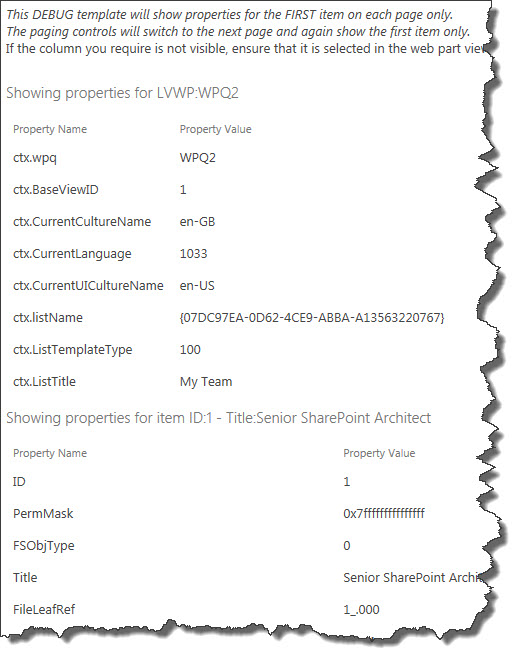
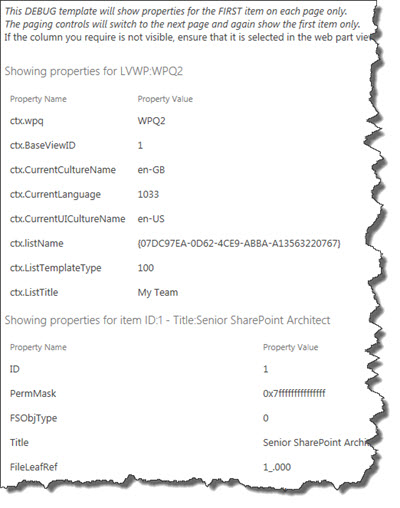
Added a new debug template
Added DebugBrief and supporting images.

diff --git a/JavaScript Display Templates (JSLink)/Debugging ListView Template/csr_ovr_Render_Template_DebugBrief.js b/JavaScript Display Templates (JSLink)/Debugging ListView Template/csr_ovr_Render_Template_DebugBrief.js
@@ -1,0 +1,134 @@
+//Create our Namespace object to avoid polluting the global namespace
+var pfh = pfh || {};
+
+//Define our Header Render pattern
+pfh.renderHeader = function(ctx) {
+	//Define any header content here.
+	//You can include JavaScript and CSS links here.
+	var headerHTML = "<div><em>This DEBUG template will show list view web part properties and the available Item fields only</em><br/>" +
+		"If the column you require is not visible in the available item fields, ensure that it is selected in the web part view</div><br/>";
+	
+	//Now add Specific list/web part information to the page
+	headerHTML += "<div class='ms-list-addnew ms-textLarge ms-soften'>Showing properties for LVWP:" + ctx.wpq + "</div>";
+    headerHTML += "<table class='ms-listviewtable'>" +
+    		"<thead id='js-listinfothead-" + ctx.wpq + "'><tr class='ms-viewheadertr ms-vhltr' align='top'><th class='ms-vh2'>Property Name</th>" +
+    		"<th class='ms-vh2'>Property Value</th></tr></thead><tbody>";
+    		
+    //If you want to show more of the base CTX properties, just add another row here.
+    headerHTML += pfh.headerPropertyRow(ctx,"wpq");
+	headerHTML += pfh.headerPropertyRow(ctx,"BaseViewID");
+	headerHTML += pfh.headerPropertyRow(ctx,"CurrentCultureName");
+	headerHTML += pfh.headerPropertyRow(ctx,"CurrentLanguage");
+	headerHTML += pfh.headerPropertyRow(ctx,"CurrentUICultureName");
+	headerHTML += pfh.headerPropertyRow(ctx,"listName");
+	headerHTML += pfh.headerPropertyRow(ctx,"ListTemplateType");
+	headerHTML += pfh.headerPropertyRow(ctx,"ListTitle");
+	
+	//Get all of the available field names from the first item
+	var firstListItem = ctx.ListData.Row[0];
+	var fieldListFromItem = "";
+	for (var subProp in firstListItem)
+	{
+		fieldListFromItem += subProp + "<br/>";
+	}
+	
+	headerHTML += "<tr class='ms-itmHoverEnabled ms-itmhover'><td class='ms-cellstyle ms-vb2'>Available Item Fields</td><td class='ms-cellstyle ms-vb2'>" + fieldListFromItem + "</td></tr>"
+ 	
+	
+	headerHTML += "</tbody></table>";
+
+	return headerHTML;
+	}
+	
+pfh.headerPropertyRow = function(ctx,propName) {
+
+	var propertyRow = "<tr class='ms-itmHoverEnabled ms-itmhover'><td class='ms-cellstyle ms-vb2'>ctx." + propName + "</td><td class='ms-cellstyle ms-vb2'>" +
+			ctx[propName] + "</td></tr>"
+
+	return propertyRow;
+	}
+	
+
+//Define our footer render pattern
+pfh.renderFooter = function(ctx) {
+	//No footer content created
+	return "";
+	}
+
+
+//Define our item Render pattern
+//This will be called once for each item being rendered from the list.
+//All fields in the view can be access using ctx.CurrentItem.InternalFieldName
+//NB: The field must be included in the view for it to be available
+pfh.CustomItem = function(ctx) {
+	//No information will be returned for any items. All info is in the Header.
+	var itemHTML = "";
+	return itemHTML;	
+}
+
+//This is our function that extracts the properties of subobjects.
+//We've seperated it out into it's own function so that we can use
+//recursive calls to the same function to walk down a tree of nested objects.
+pfh.evaluateObject = function(objValue) {
+
+	var stringValueOfObject = "";
+	//For each property in the object
+	for (var subProp in objValue)
+	{
+		//We just need to check if the sub property is in itself an object with multiple properties
+		var subPropVal = objValue[subProp];
+		if (subPropVal !== null && typeof subPropVal === 'object')
+		{
+			//If it is, we'll use call this function again to output the values
+			//This is called recursion if you're not familiar with it
+			stringValueOfObject = pfh.evaluateObject(subPropVal);
+		}
+		else
+		{
+			//First validate if the property is empty, null or not
+			subPropVal = subPropVal === "" ? "<strong>Empty</strong>" : subPropVal;
+			subPropVal = subPropVal === null ? "<em>Null</em>" : subPropVal;
+			//Then output the value.
+			stringValueOfObject += subProp + ":" + subPropVal + "|";
+		}
+	}	
+	// return the string representation of our object
+	return stringValueOfObject;
+}
+
+
+//Define any code/function that needs to be run AFTER the page has been completed and the DOM is complete.
+pfh.PostRenderCallback = function(ctx) {
+}
+
+
+//Define the function that will register our Override with SharePoint.
+pfh.RegisterTemplateOverride = function () {
+// 	Define a JavaScript object that will contain our Override
+	var overrideCtx = {};
+	overrideCtx.Templates = {};
+
+
+//	Here we assign our Header and Footer functions to the template overrides.
+	overrideCtx.Templates.Header = pfh.renderHeader;
+	overrideCtx.Templates.Footer = pfh.renderFooter;
+
+
+// 	And here we assign the CustomItem function to the Item registration.
+	overrideCtx.Templates.Item = pfh.CustomItem;
+
+//	Register this Display Template against views with matching BaseViewID and ListTemplateType
+//	See http://msdn.microsoft.com/en-us/library/microsoft.sharepoint.client.listtemplatetype(v=office.15).aspx for more ListTemplateTypes	
+	overrideCtx.BaseViewID = 1;
+	overrideCtx.ListTemplateType = 100;
+
+
+//  Register the template overrides with SharePoint
+	SPClientTemplates.TemplateManager.RegisterTemplateOverrides(overrideCtx);
+};
+
+
+//Register for MDS enabled site otherwise the display template doesn't work on refresh
+//Note: the JSLink ~sitecollection etc values DONT work here!
+RegisterModuleInit("/_catalogs/masterpage/Display%20Templates/csr_ovr_Render_Template_DebugBrief.js", pfh.RegisterTemplateOverride); // CSR-override for MDS enabled site
+pfh.RegisterTemplateOverride(); //CSR-override for MDS disabled site (because we need to call the entry point function in this case whereas it is not needed for anonymous functions)

diff --git a/JavaScript Display Templates (JSLink)/Debugging ListView Template/README.md b/JavaScript Display Templates (JSLink)/Debugging ListView Template/README.md
@@ -1,11 +1,16 @@
 Debugging ListView Template
 ================
 
-This folder contains a single List view Display template that displays selected information about the List view Web Part and shows all available properties on the list item in a tabled fashion.
+This folder contains two List view Display templates that display selected information about the List view Web Part and the items displayed.
 
-**This template is currently configured for a BaseViewID of 1 and a ListTemplateType of 100 (Custom List)**
+__csr_ovr_Render_Template_Debug.js__             | This template renders debug information about the LVWP including item values for the first item on each page.
+__csr_ovr_Render_Template_DebugBrief.js__             | This template renders debug information about the LVWP and all available fields, but does not include item values.
 
+**These templates are currently configured for a BaseViewID of 1 and a ListTemplateType of 100 (Custom List)**
+
+**The Main debug template in use**
 ![Screenshot of the debug template in action](https://raw.githubusercontent.com/SPCSR/DisplayTemplates/master/JavaScript%20Display%20Templates%20(JSLink)/Debugging%20ListView%20Template/images/debugtemplate.jpg)
 
-
+**The brief debug template in use**
+![Screenshot of the debug brief template in action](https://raw.githubusercontent.com/SPCSR/DisplayTemplates/master/JavaScript%20Display%20Templates%20(JSLink)/Debugging%20ListView%20Template/images/debugtemplatebrief.jpg)
 
